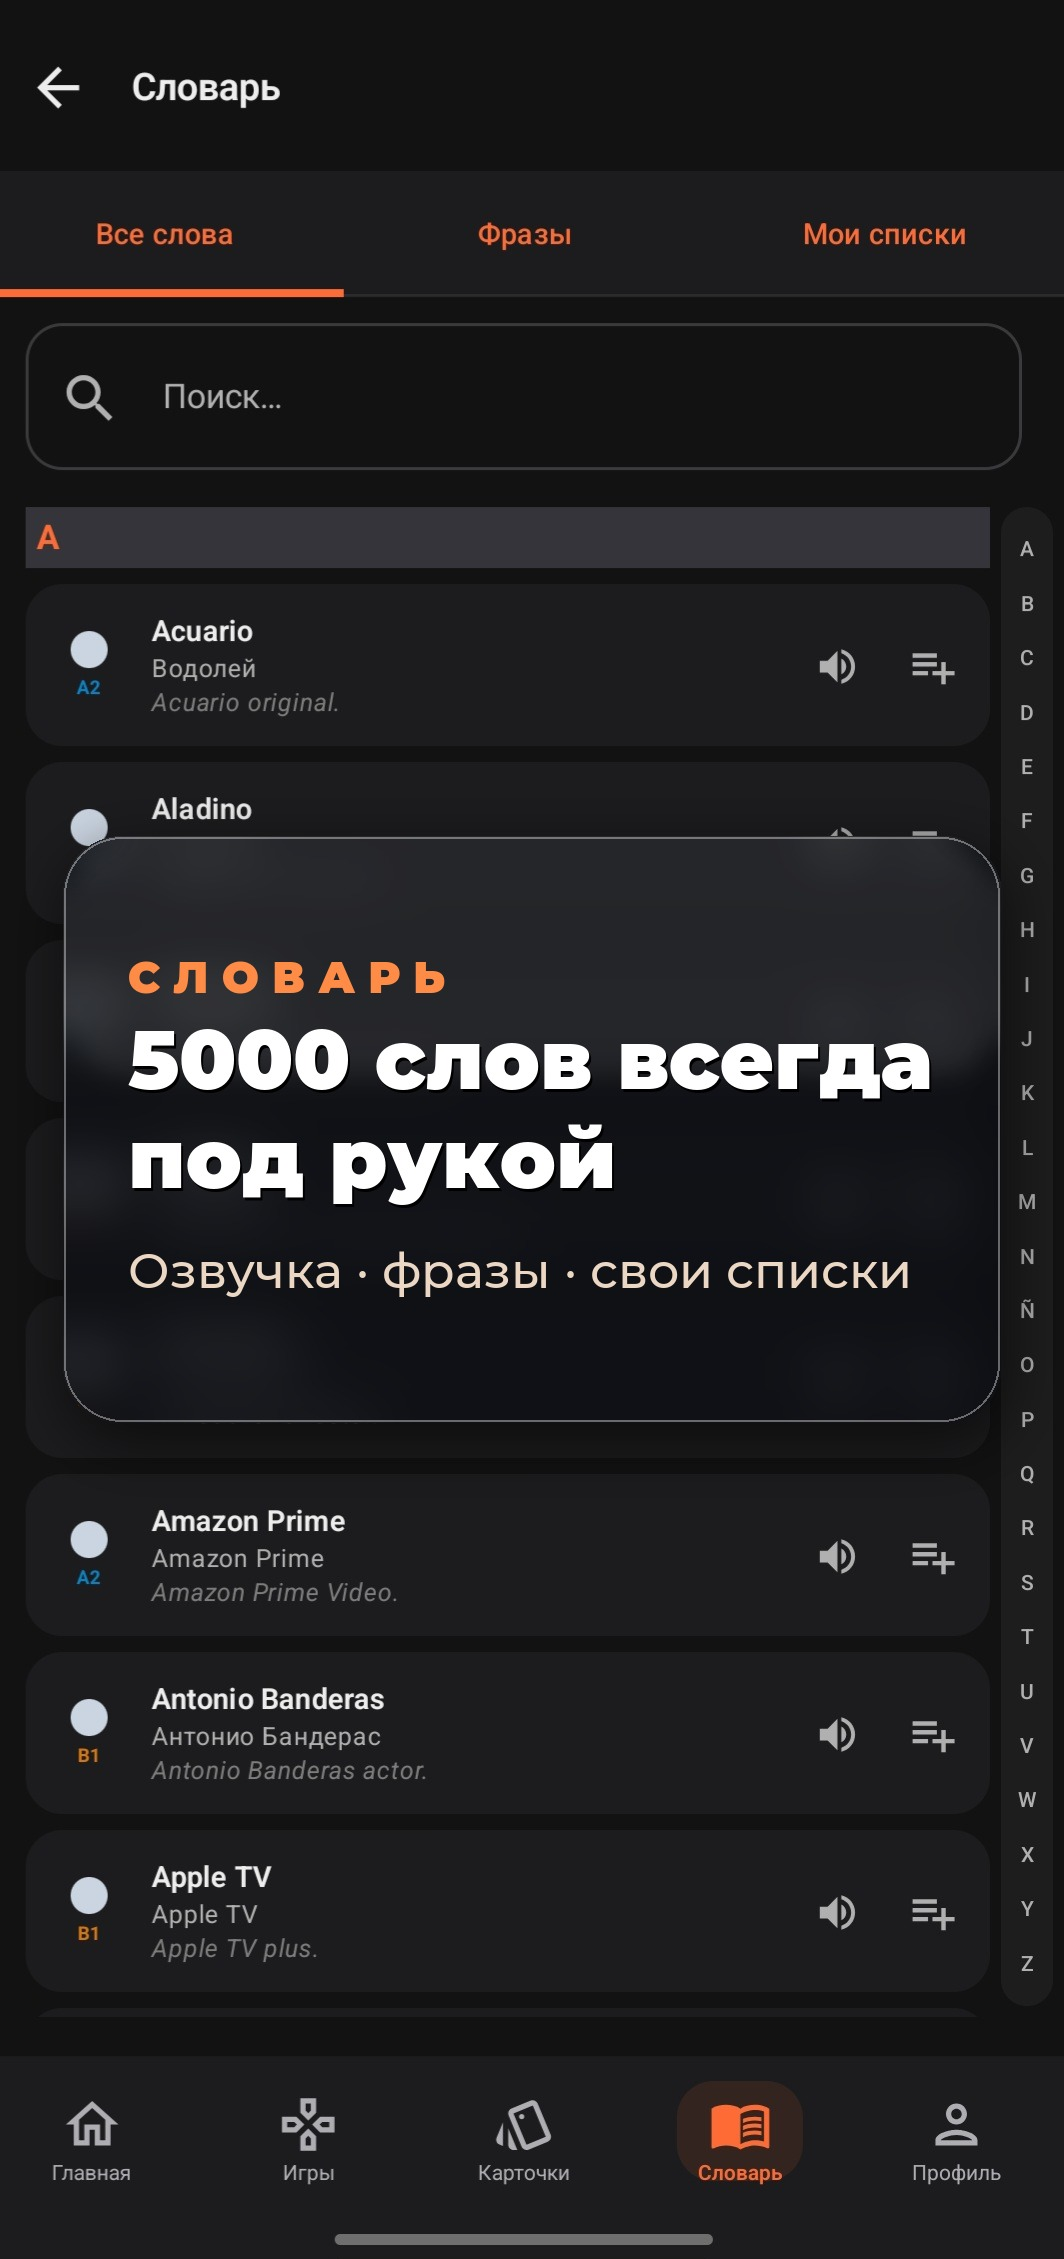
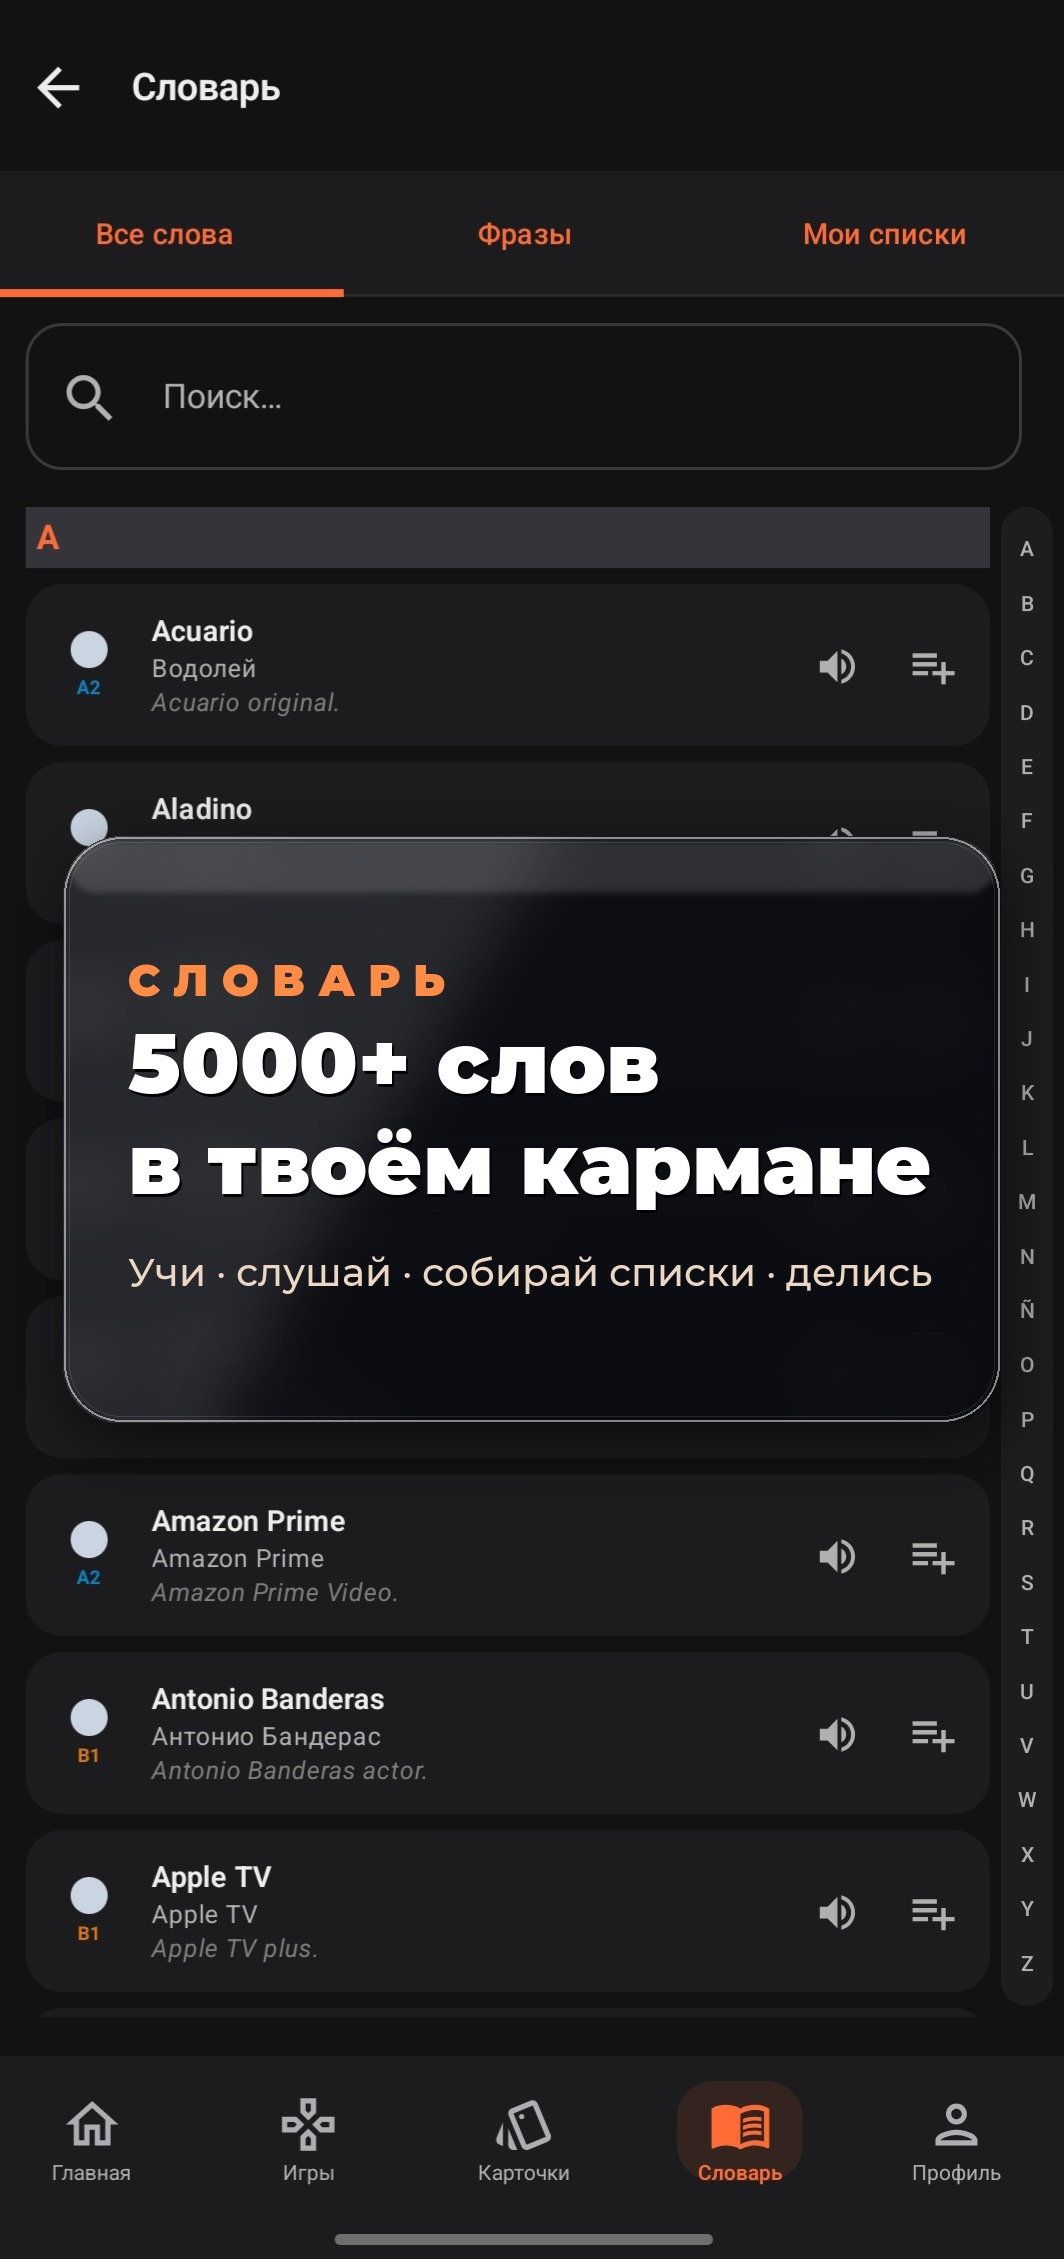
Play assets: luxe glass + final copy pass
User feedback round 3: less transparency, drop screenshot 9,
rewrite copy with concrete numbers and emotional hooks.

Glass density: tint alpha 140→190 (top) and 175→215 (bottom).
Glass now reads as a real card, not a hint.

Luxe details added:
  • Diagonal top-left sheen (subtle premium sweep, blur 35)
  • Inner top highlight band right under the border
  • Double border — outer hairline (alpha 130) + inner hairline
    (alpha 30) inset 6px. Classic luxury card look.

Copy rewrite (per user line-by-line):
  1 Игры        → "Учи играя" / 6 авторских игр + тренажёр + 100 рассказов
  2 Словарь     → "5000+ слов в твоём кармане" / учи, слушай, собирай списки, делись
  3 Главная     → "Один экран — весь твой испанский"
  4 Libros      → "Читай. Слушай. Говори как носитель." + произношение
  5 Crucigrama  → "Кроссворды, которые качают рейтинг"
  6 Cálculo     → "Числа на слух — как носитель"
  7 Verbos      → "Победи спряжения" / 6 времён · 1000+ форм · 4 режима
  8 Карточки    → "Запомнить навсегда — реально"
  9 Словарь detail — удалён по запросу.

Changed region(s): [[0.062, 0.3718, 0.8994, 0.5888]]

diff --git a/docs/play_assets/_make_screenshot_banners.py b/docs/play_assets/_make_screenshot_banners.py
@@ -17,40 +17,36 @@ FONT_MEDIUM = 'docs/play_assets/_fonts/Montserrat-Medium.ttf'
 CAPTIONS = [
     ('Screenshot_20260511_094841_ESPEAK.jpg',
      'ИГРЫ',
-     'Учи играя — не зубри',
-     '8 мини-игр под твой испанский'),
+     'Учи играя',
+     '6 авторских игр · тренажёр глаголов · 100 рассказов'),
     ('Screenshot_20260511_094848_ESPEAK.jpg',
      'СЛОВАРЬ',
-     '5000 слов всегда\nпод рукой',
-     'Озвучка · фразы · свои списки'),
+     '5000+ слов\nв твоём кармане',
+     'Учи · слушай · собирай списки · делись'),
     ('Screenshot_20260511_095005_ESPEAK.jpg',
      'ГЛАВНАЯ',
-     'Твой испанский —\nкаждый день',
-     'Урок · слово дня · цель'),
+     'Один экран —\nвесь твой испанский',
+     'Урок · слово дня · рейтинг · цель'),
     ('Screenshot_20260511_095017_ESPEAK.jpg',
      'LIBROS',
-     'Читай по-настоящему',
-     '100 рассказов A1–B2 с тестами'),
+     'Читай. Слушай.\nГовори как носитель.',
+     '100 рассказов · озвучка · проверка произношения'),
     ('Screenshot_20260511_095026_ESPEAK.jpg',
      'CRUCIGRAMA',
-     'Думай по-испански',
-     '100 кроссвордов растущей сложности'),
+     'Кроссворды,\nкоторые качают рейтинг',
+     '100 уровней растущей сложности'),
     ('Screenshot_20260511_095034_ESPEAK.jpg',
      'CÁLCULO',
-     'Считай на слух',
-     'Числа без шпаргалок · 100 уровней'),
+     'Числа на слух —\nкак носитель',
+     'Тренируй устный счёт · 100 уровней'),
     ('Screenshot_20260511_095044_ESPEAK.jpg',
      'VERBOS',
-     '160 глаголов.\nВсе времена.',
-     'Conjugar · Inverso · Hueco · Auditivo'),
+     'Победи спряжения',
+     '6 времён · 1000+ форм · 4 режима тренировки'),
     ('Screenshot_20260511_095051_ESPEAK.jpg',
      'КАРТОЧКИ',
-     'Запоминай навсегда',
-     'Алгоритм SM-2 · повторяй умно'),
-    ('Screenshot_20260511_095101_ESPEAK.jpg',
-     'СЛОВО',
-     'Любое слово —\nв один тап',
-     'Перевод · пример · озвучка'),
+     'Запомнить навсегда —\nреально',
+     'Алгоритм SM-2 · повторяй умно, а не часто'),
 ]
 
 
@@ -89,28 +85,44 @@ def add_glass_banner(img: Image.Image, eyebrow: str,
                         banner_x + banner_w, banner_y + banner_h)).convert('RGBA')
     blurred = region.filter(ImageFilter.GaussianBlur(26))
 
-    # 2. Dark vertical gradient tint — top a touch lighter than bottom
+    # 2. Dark vertical gradient tint — denser glass per user feedback
     tint = Image.new('RGBA', (banner_w, banner_h), (0, 0, 0, 0))
     tdraw = ImageDraw.Draw(tint)
     for y in range(banner_h):
         t = y / banner_h
-        a = int(140 + 35 * t)            # 140 → 175
-        tdraw.line([(0, y), (banner_w, y)], fill=(10, 12, 18, a))
+        a = int(190 + 25 * t)            # 190 → 215 (was 140 → 175)
+        tdraw.line([(0, y), (banner_w, y)], fill=(8, 10, 16, a))
     panel = Image.alpha_composite(blurred, tint)
 
-    # 3. Soft top sheen
+    # 3. Diagonal top-left sheen — premium glass sweep
     sheen = Image.new('RGBA', (banner_w, banner_h), (0, 0, 0, 0))
-    ImageDraw.Draw(sheen).rounded_rectangle(
-        [0, 0, banner_w, int(banner_h * 0.42)],
-        radius=radius, fill=(255, 255, 255, 20))
-    sheen = sheen.filter(ImageFilter.GaussianBlur(14))
+    sdr = ImageDraw.Draw(sheen)
+    sdr.polygon([
+        (0, 0),
+        (int(banner_w * 0.55), 0),
+        (int(banner_w * 0.18), banner_h),
+        (0, banner_h),
+    ], fill=(255, 255, 255, 28))
+    sheen = sheen.filter(ImageFilter.GaussianBlur(35))
     panel = Image.alpha_composite(panel, sheen)
 
-    # 4. Hairline border
+    # 4. Inner top highlight — bright thin band right under the border
+    hl = Image.new('RGBA', (banner_w, banner_h), (0, 0, 0, 0))
+    ImageDraw.Draw(hl).rounded_rectangle(
+        [4, 2, banner_w - 4, int(banner_h * 0.10)],
+        radius=radius // 2, fill=(255, 255, 255, 35))
+    hl = hl.filter(ImageFilter.GaussianBlur(4))
+    panel = Image.alpha_composite(panel, hl)
+
+    # 5. Double border — outer hairline + inner hairline (luxe stacked feel)
     border = Image.new('RGBA', (banner_w, banner_h), (0, 0, 0, 0))
-    ImageDraw.Draw(border).rounded_rectangle(
+    bdr = ImageDraw.Draw(border)
+    bdr.rounded_rectangle(
         [1, 1, banner_w - 2, banner_h - 2],
-        radius=radius, outline=(255, 255, 255, 95), width=2)
+        radius=radius, outline=(255, 255, 255, 130), width=2)
+    bdr.rounded_rectangle(
+        [6, 6, banner_w - 7, banner_h - 7],
+        radius=max(radius - 5, 6), outline=(255, 255, 255, 30), width=1)
     panel = Image.alpha_composite(panel, border)
 
     # Clip panel to rounded mask
